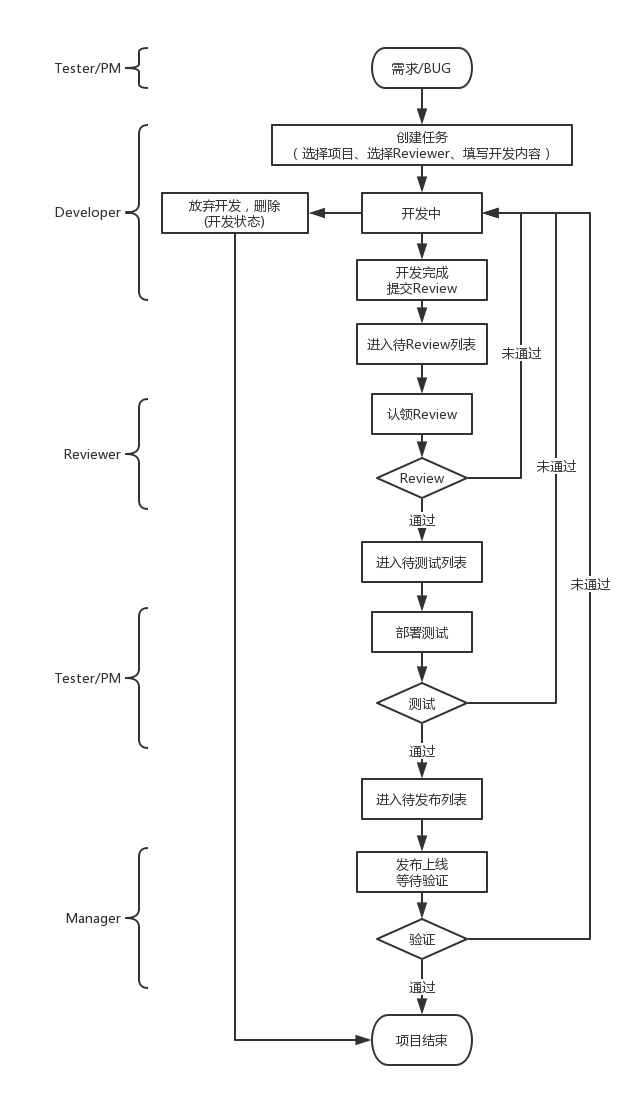
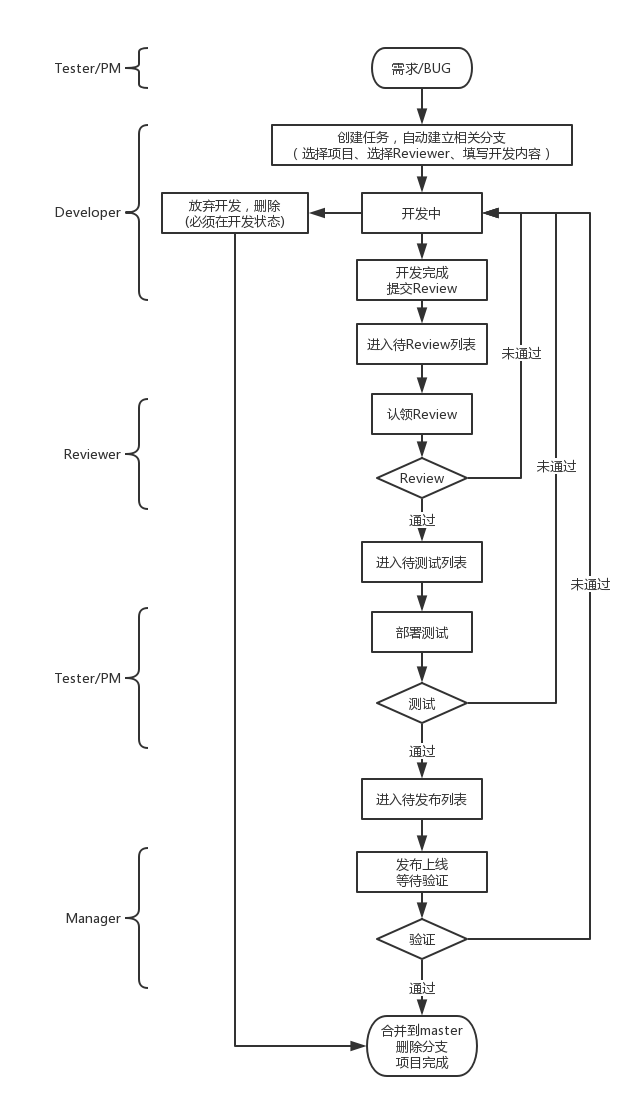
完善流程图，调整服务器配置的说明文本

diff --git a/views/machine/inneredit.html b/views/machine/inneredit.html
@@ -61,7 +61,7 @@
 
                         <p>
                         	<label>服务器登陆名</label>
-                            <span class="field"><input type="text" name="User" id="User" class="longinput" value="{{.Data.machine.User}}" placeholder="请输入服务器登陆名，必须可以登陆并且有权限操作git" /></span>
+                            <span class="field"><input type="text" name="User" id="User" class="longinput" value="{{.Data.machine.User}}" placeholder="请输入服务器登陆名，必须可以登陆" /></span>
                         </p>
                         
                         <p>
@@ -81,7 +81,7 @@
 
                         <p>
                         	<label>内网服务器登陆名</label>
-                            <span class="field"><input type="text" name="InnerUser" id="InnerUser" class="longinput" value="{{.Data.machine.InnerUser}}" placeholder="请输入内网服务器登陆名，必须可以登陆并且有权限操作git" /></span>
+                            <span class="field"><input type="text" name="InnerUser" id="InnerUser" class="longinput" value="{{.Data.machine.InnerUser}}" placeholder="请输入内网服务器登陆名，必须可以登陆" /></span>
                         </p>
                         
                         <p>

diff --git a/views/machine/edit.html b/views/machine/edit.html
@@ -61,7 +61,7 @@
 
                         <p>
                         	<label>服务器登陆名</label>
-                            <span class="field"><input type="text" name="User" id="User" class="longinput" value="{{.Data.machine.User}}" placeholder="请输入服务器登陆名，必须可以登陆并且有权限操作git" /></span>
+                            <span class="field"><input type="text" name="User" id="User" class="longinput" value="{{.Data.machine.User}}" placeholder="请输入服务器登陆名，必须可以登陆" /></span>
                         </p>
                         
                         <p>
